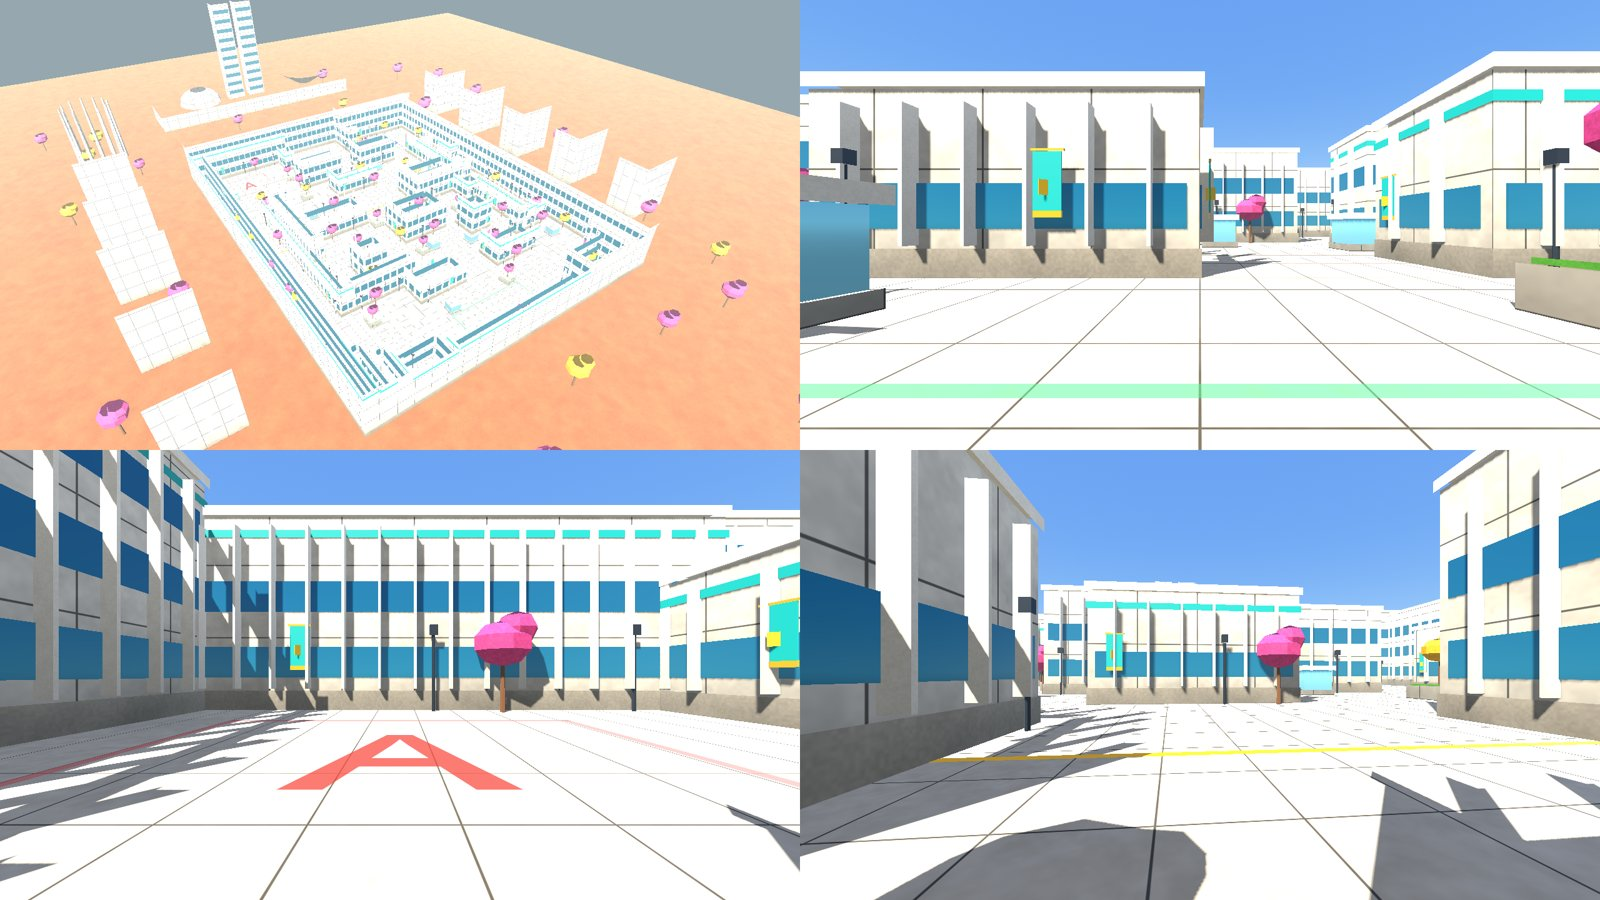
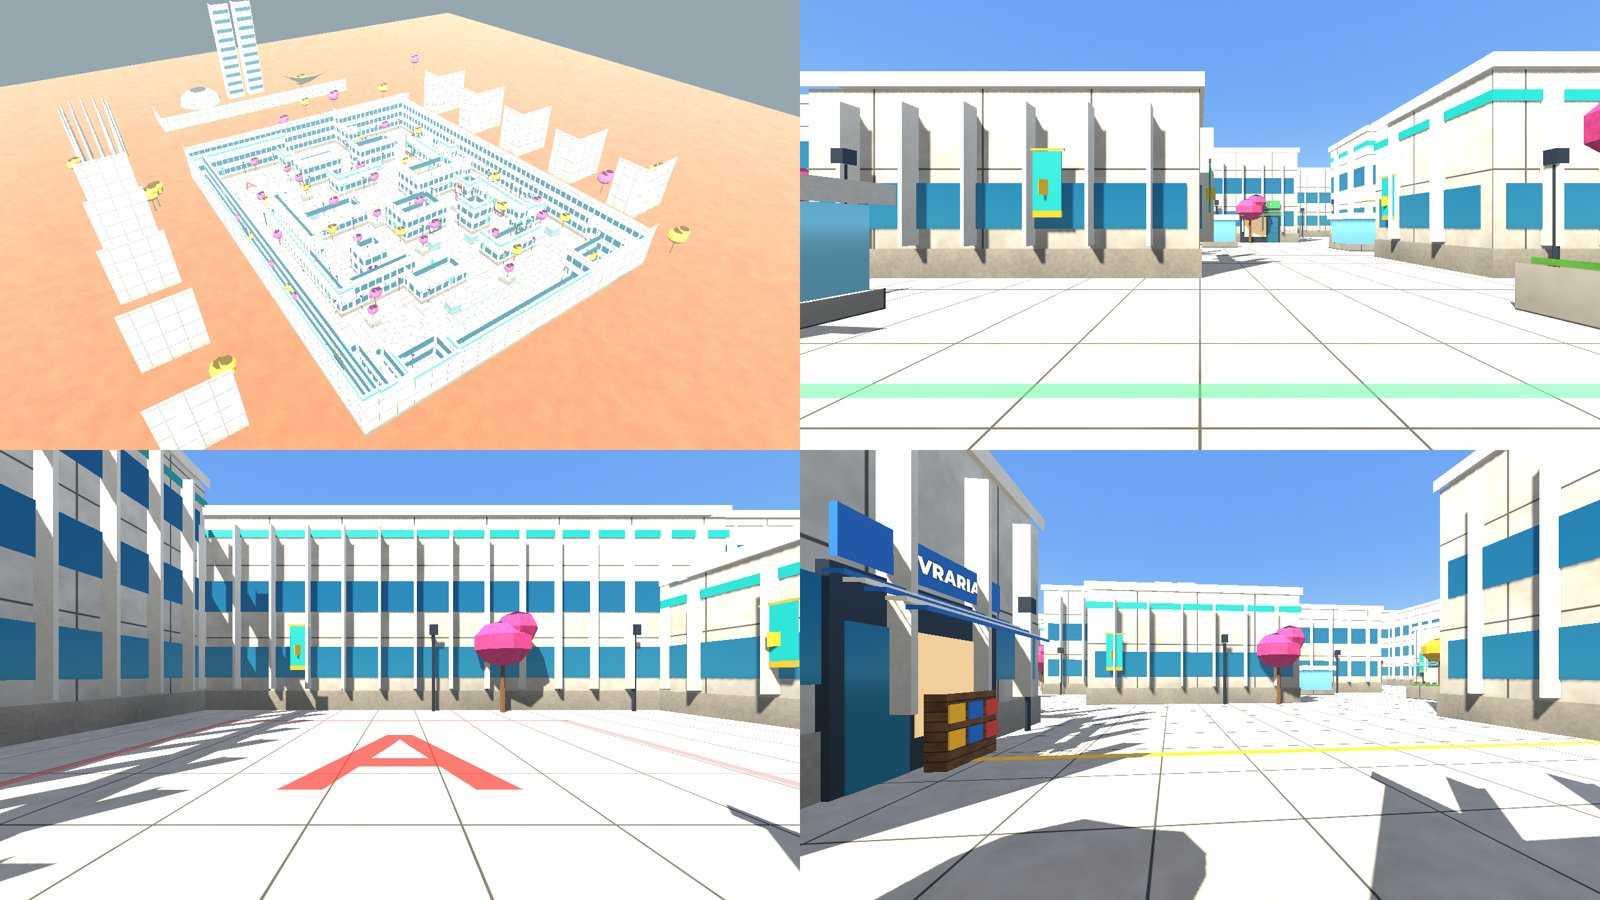
feat(pvp): estabelecimentos regionais nas arenas (lojas com toldo, letreiro, vitrine e calçada) e versão 0.5.2-pvp (code 106)
Claude-Session: https://claude.ai/code/session_018RWGSTGFaZHZyFe2fPD5xw

diff --git a/game/tests/test_static_contract.py b/game/tests/test_static_contract.py
@@ -18,7 +18,7 @@ checks['diagnostic_checks_present'] = source.count('results["') == 22 and 'CHANN
 checks['diagnostic_enabled_for_alpha'] = 'const ALPHA_DIAGNOSTICS_ENABLED := true' in source and 'if ALPHA_DIAGNOSTICS_ENABLED:' in source and 'if OS.is_debug_build():' not in source
 checks['no_live_cloud_required'] = all(s not in source for s in ['Supabase','MultiplayerPeer']) and (root/'scripts/content_updater.gd').exists()
 checks['android_32_64'] = all(s in presets for s in ('architectures/armeabi-v7a=true','architectures/arm64-v8a=true'))
-checks['android_package_and_version'] = all(s in presets for s in ('ink.evolu.valdora','version/code=105','version/name="0.5.1-pvp"'))
+checks['android_package_and_version'] = all(s in presets for s in ('ink.evolu.valdora','version/code=106','version/name="0.5.2-pvp"'))
 checks['engine_smoke_script'] = (root/'tests/smoke.gd').is_file() and 'CHANNEL_ENGINE_SMOKE' in (root/'tests/smoke.gd').read_text()
 for key, ok in checks.items():
  print(('PASS' if ok else 'FAIL')+' '+key)
@@ -40,7 +40,7 @@ updater = (root/'scripts/content_updater.gd').read_text()
 checks_update = {
     'game_label': 'package/name="Valdora"' in presets and 'brand.text = "VALDORA' in source,
     'package_id_isolated': 'package/unique_name="ink.evolu.valdora"' in presets,
-    'version_advanced': 'version/code=105' in presets,
+    'version_advanced': 'version/code=106' in presets,
     'internet_permission': 'permissions/internet=true' in presets,
     'manifest_contract': manifest['game']=='Valdora' and manifest['required_client_version']=='0.2.0',
     'content_integrity': sha256(payload_path.read_bytes()).hexdigest()==manifest['content']['sha256'],
@@ -88,6 +88,6 @@ assert 'ENGINE.advance_round(' in arena and 'playback_queue' in arena
 assert all(command in arena for command in ['take_turn("none")', 'take_turn("auto")', 'take_turn("manual")'])
 assert 'COMBAT_ARENA.new()' in source and 'combat_panel.configure(hero_catalog, hero_state)' in source
 assert 'cp003_repetibilidade' in source and 'cp003_arena' in source
-assert 'package/unique_name="ink.evolu.valdora"' in presets and 'version/code=105' in presets
+assert 'package/unique_name="ink.evolu.valdora"' in presets and 'version/code=106' in presets
 assert 'FileAccess' not in arena and 'SAVE_PATH' not in arena
 print('PASS: CP003-C arena, tactical controls, save isolation and stable Android identity.')

diff --git a/game/tests/test_combat_static_contract.py b/game/tests/test_combat_static_contract.py
@@ -26,7 +26,7 @@ checks = {
     "gdtest_exists": (game / "tests/combat_smoke.gd").is_file() and "VALDORA_CP003_COMBAT" in smoke,
     "four_approved_heroes": [x["display_name"] for x in catalog["heroes"]] == ["Pietro", "Henzo", "Giulia", "Arthur"],
     "no_change_android_identity": 'package/unique_name="ink.evolu.valdora"' in preset,
-    "no_change_android_version": "version/code=105" in preset and 'version/name="0.5.1-pvp"' in preset,
+    "no_change_android_version": "version/code=106" in preset and 'version/name="0.5.2-pvp"' in preset,
     "arena_no_file_io": all(s not in (game / "scripts/combat/arena_panel.gd").read_text() for s in ["FileAccess", "DirAccess", "user://", "HTTPRequest", "Supabase"]),
     "arena_isolated_render": "SubViewport.new()" in (game / "scripts/combat/arena_panel.gd").read_text(),
     "no_change_release_artifact": 'export_path="dist/Valdora.apk"' in preset,

diff --git a/game/tests/test_ota_contract.py b/game/tests/test_ota_contract.py
@@ -41,7 +41,7 @@ updater=(G/"scripts/updates/update_manager.gd").read_text()
 main=(G/"scripts/main.gd").read_text()
 project=(G/"project.godot").read_text()
 checks["boot_load_order"] = project.index('ValdoraPacks=') < project.index('ValdoraUpdater=')
-checks["base_app_version"] = 'version/code=105' in (G/"export_presets.cfg").read_text()
+checks["base_app_version"] = 'version/code=106' in (G/"export_presets.cfg").read_text()
 checks["saves_untouched"] = all(x not in updater+boot for x in ["channel_save.json", "valdora_hero_roster_v1.json"])
 checks["safe_pack_mount"] = "load_resource_pack(ProjectSettings.globalize_path(path), replace_existing)" in boot and "_zip_namespace_ok" in boot
 checks["signed_pck_required"] = "Crypto.new().verify" in source and "PUBLIC_KEY" in source

diff --git a/game/docs/PVP_v0.1.md b/game/docs/PVP_v0.1.md
@@ -133,6 +133,19 @@ O dono pediu o acabamento da arte conceitual, com o ambiente de cada região. Re
 - **Limite:** o nível da arte conceitual (pintura digital) não sai inteiro de geometria feita por código. A distância está em detalhe de modelagem (ornamentos, arcos, vegetação densa) e em texturas pintadas. Os próximos passos de arte são modelos dedicados por marco e mais adereços.
 - **APK 0.5.1-pvp (versionCode 105):** atualização por cima da 0.5.0. O link direto fica na pré-versão `valdora-0.5.1-pvp` do GitHub.
 
+## Estabelecimentos e APK 0.5.2 (15/11/2026)
+
+- Até 14 lojas por mapa no térreo dos prédios, espalhadas a pelo menos 9 m uma da outra e só onde a calçada em frente é livre.
+- Cada loja tem moldura, vitrine iluminada, porta de vidro, toldo listrado e letreiro com o nome.
+- Na calçada, encostados na parede: mesas e cadeiras de café, banca de frutas ou de peixe, expositor de revistas ou caixas.
+- Nomes por região:
+  - Brasília: Café Cerrado, Livraria, Padaria, Farmácia, Restaurante Ipê, Banca;
+  - Rio: Botequim, Peixaria, Armazém 7, Café do Cais, Estiva, Sucos;
+  - Salvador: Acarajé, Sorveteria, Artesanato, Padaria, Capoeira, Café Baiano;
+  - São Paulo: Pastelaria, Lanchonete, Banca, Farmácia, Bilheteria, Café da Estação;
+  - Pará: Açaí, Mercado do Peixe, Farinha, Café, Mercearia, Tacacá.
+- APK 0.5.2-pvp (versionCode 106). Testes: 21 de 21.
+
 ## Próximos passos (propostos)
 
 1. O dono avalia os menus e os mapas.
